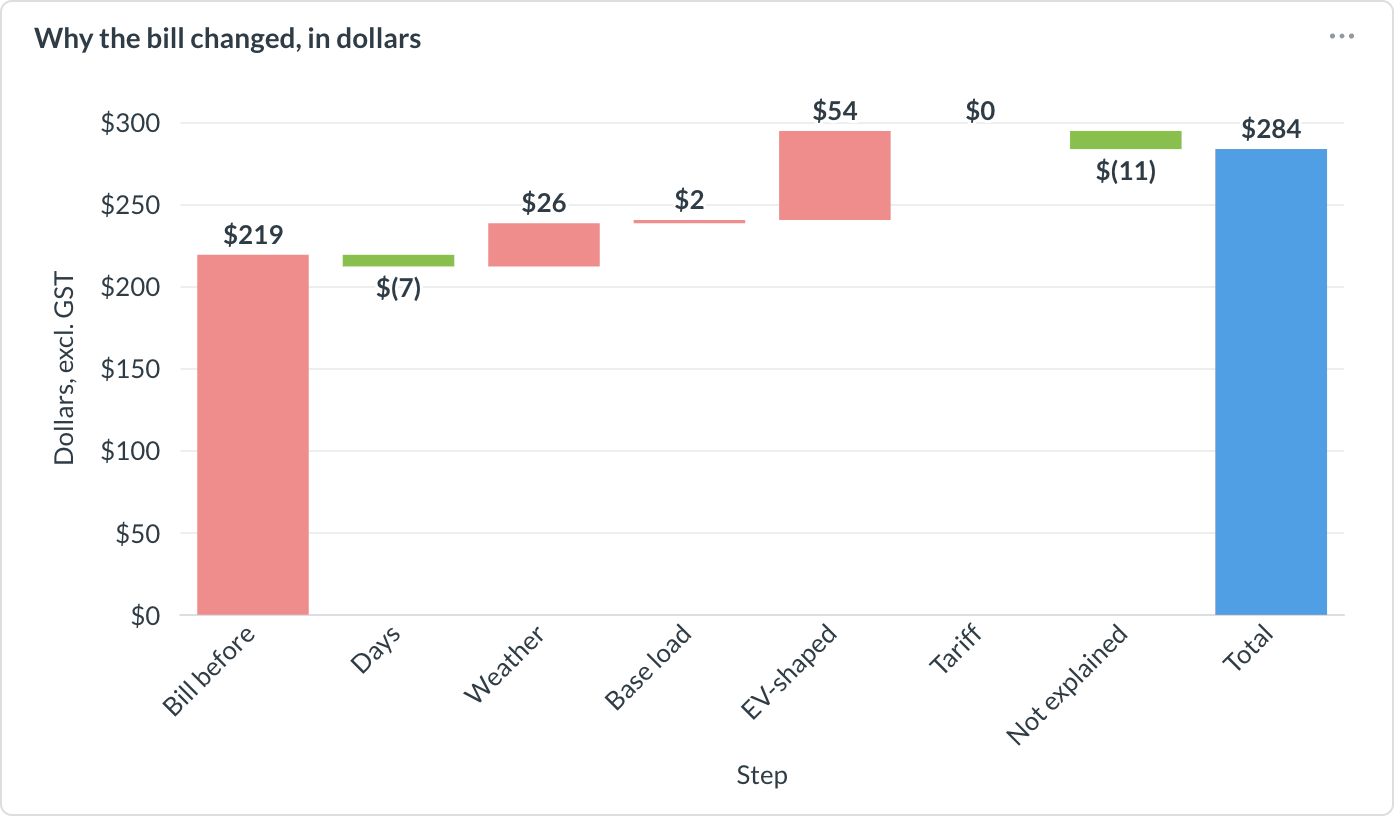
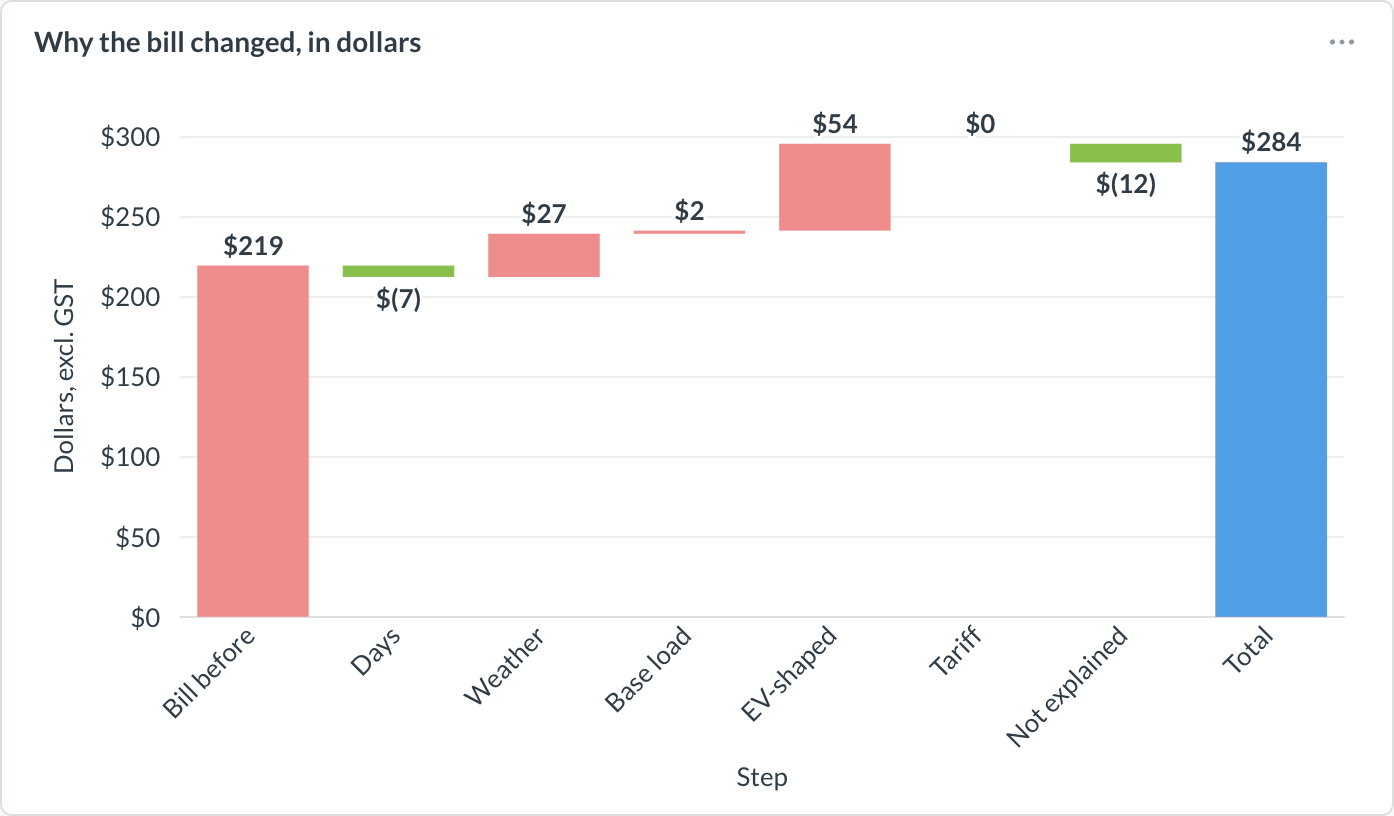
docs: lead the README with the problem and answer each question in Analysis
- Why it matters: rising power bills, the jump in EV registrations and the
  growth of rooftop solar, each with its source, and the five questions they
  leave customers with.
- Analysis: a table answering all five for the demo household, then one
  section per question with the result first, its chart, and the method in a
  collapsed "How it's calculated" block. New sections for night charging and
  solar; the plan comparison shows the three plans and why Time of Use wins.
- Figures retaken from the rebuilt demo dashboard on weather to 16 Sep 2026:
  the bill explanation, and the forecast for the cycle from 2 Sep. Two new
  ones for night charging and solar payback.
- Data sources before Architecture, the NIWA download in the prerequisites,
  the serving database correctly given as Postgres 16, and the Trustworthy
  answers stage dropped from the roadmap.

diff --git a/README.md b/README.md
@@ -1,13 +1,46 @@
 # Kea Energy — Data Platform
 
-**A batch data platform that turns smart-meter readings into bill explanations, bill forecasts
-and plan recommendations for New Zealand electricity customers.**
+**A data platform that turns smart-meter readings into answers for New Zealand electricity
+customers: why a bill went up, what it will come to, which plan is cheapest, and what charging
+an EV at night or adding solar would save.**
 
-Customers want to know why a bill went up, what next month will cost and whether another
-plan would be cheaper. Answering that needs half-hourly meter data, billing history, tariffs
-and weather from separate systems, and the answers have to be correct. This pipeline
-collects that data, models it and publishes it to the customer-facing app in tested
-releases.
+## Why it matters
+
+Three trends are making New Zealand households look harder at their power bills:
+
+- **Bills keep rising:** up 6.8% on average in the first half of 2026, after 8.0% in 2025
+  ([Electricity
+  Authority](https://www.ea.govt.nz/news/general-news/data-shows-68-increase-to-power-bills-across-households-and-small-businesses/)).
+- **More cars charge at home:** with petrol at $3.35 a litre, EV and plug-in hybrid
+  registrations in the September quarter were up 206% on a year earlier, 19% of all car
+  registrations ([Infometrics, via
+  RNZ](https://newswire.co.nz/2026/10/new-zealand-electric-car-registrations-triple-september-quarter-2026/)).
+- **More homes turn to solar:** just under 84,000 customers now have it, up from 20,000 in
+  2018, and Rewiring Aotearoa estimates most buyers now save more than they spend
+  ([RNZ](https://www.rnz.co.nz/news/business/594242/new-zealand-passes-solar-tipping-point)).
+
+That leaves customers with five questions: why the bill went up, what it will come to, and
+whether another plan, charging the car at night or adding solar would save money.
+[Analysis](#analysis) answers each one for a demo household.
+
+Answering them needs half-hourly meter data, billing history, tariffs and weather from separate
+systems, and the answers have to be correct. This pipeline collects that data, models it and
+publishes it to the customer-facing app in tested releases.
+
+## Data sources
+
+The data is generated from real public datasets, so it behaves like real data but contains
+no customer information.
+
+| Source | Used for |
+|---|---|
+| [Low Carbon London](https://www.kaggle.com/datasets/jeanmidev/smart-meters-in-london) smart-meter data | A deterministic 200-household cohort, shifted to NZ time and seasons ([details](dictionary/lcl-source-data.md)) |
+| [NIWA](dictionary/niwa-weather-source.md) daily temperatures | Heating-degree days for weather-adjusted forecasts (non-commercial licence, not redistributed) |
+| [Retail tariffs](dictionary/ecotricity-tariff-source.md) | Three plan families used to price every bill |
+| [`sample/`](sample/) | Nine hand-built households, each a "why did my bill go up" scenario that checks its own totals |
+
+**Dollar figures are illustrative.** Tariffs come from public sources; values that had to be
+assumed are marked as such in the data dictionary.
 
 ## Architecture
 
@@ -31,37 +64,159 @@ releases.
 ## Analysis
 
 The published data answers the questions above. These charts come from the demo walkthrough
-dashboard, which follows one household from the test data through every feature. The data is
-synthetic and the dashboard shows no identifiers.
+dashboard, which follows one household from the test data through each feature below. The data
+is synthetic and the dashboard shows no identifiers.
+
+| Question | Answer for the demo household |
+|---|---|
+| [Why did my bill go up?](#why-did-my-bill-go-up) | Up 29%, mostly a new EV: $54 of the $64 rise |
+| [What will this bill come to?](#what-will-this-bill-come-to) | Up to 87% above last year, so a warning from day one |
+| [Would another plan be cheaper?](#would-another-plan-be-cheaper) | Yes: Time of Use, about $400 a year less |
+| [What if the car charged at night?](#what-if-the-car-charged-at-night) | Another $487 a year on Time of Use |
+| [What if the household added solar?](#what-if-the-household-added-solar) | Fastest payback 8 to 15 years (3 kW, no battery) |
+
+Each section gives the result first; open **How it's calculated** for the method.
 
 ### Why did my bill go up?
 
-The bill for 2 Jun – 1 Jul 2026 was **29% higher** than the one before ($219 → $284). From
-20 June, the half-hourly data shows long evening blocks shaped like an EV charger:
+The bill for 2 Jun – 1 Jul 2026 was **29% higher** than the one before ($219 → $284). The
+EV-shaped load accounts for **$54** of the $64 rise and colder weather for $27, while a shorter
+billing period saves $7. The $12 that no measured cause explains is shown rather than hidden.
+From 20 June, the half-hourly data shows long evening blocks shaped like an EV charger:
 
 ![Daily use, with the EV-shaped part highlighted](analysis/figures/dashboard-ev-detection.png)
 
-The bill explanation prices each cause in dollars. The EV-shaped load accounts for **$54** of
-the rise and colder weather for $26, while a shorter billing period saves $7. The $11 that no
-measured cause explains is shown rather than hidden.
-
 ![Why the bill changed, in dollars](analysis/figures/dashboard-bill-explanation.png)
 
-### What will next month cost?
+<details>
+<summary>How it's calculated</summary>
 
-During the cycle that started on 2 Aug 2026, the daily forecast sat up to **63% above** the
-same period last year from day one, and its range never came down to last year's bill. The
-customer gets a "heading unusually high" warning weeks before the bill arrives.
+The bill explanation splits the change into causes and prices each one in dollars, at the
+earlier bill's own price per kWh so the customer can check it against that bill. The causes are
+measured in a fixed order, each after the ones before it are taken out:
+
+1. **Days:** a longer or shorter billing period.
+2. **Weather:** the change in heating degree days, times how much more this household uses on a
+   colder day.
+3. **Base load:** a change in the always-on use, such as fridges and standby.
+4. **Detected loads:** EV-shaped and water-heater-shaped runs found in the half-hourly data.
+5. **Tariff:** a change in the plan's prices.
+
+Whatever is left is shown as **not explained**, so the parts always add up exactly to the
+change. A bill is only called explained when the measured causes cover at least 60% of it and
+both periods have complete weather.
+
+</details>
+
+### What will this bill come to?
+
+During the cycle that started on 2 Sep 2026, the forecast sat up to **87% above** the same
+period last year from day one, and its range never came down to last year's bill. Because it
+was 15% or more above last year, the customer got a "heading unusually high" warning weeks
+before the bill arrived.
 
 ![The forecast during the cycle, against last year](analysis/figures/dashboard-forecast.png)
 
+<details>
+<summary>How it's calculated</summary>
+
+Partway through a billing cycle, the forecast is rebuilt as each day's meter reads arrive:
+
+1. **Use so far** comes from the meter, so it is known, not estimated.
+2. **The remaining days** are projected from a model fitted on this household's own past
+   months: a daily base use plus the extra use per heating degree day. Detected loads such as
+   the EV are added back, and the weather still to come is taken from 30-year climate normals
+   for the region.
+3. **The bill** is that use priced at the plan's rates, plus the daily charges. The ±15% range
+   applies to the projected days only, because the metered days are already known.
+
+</details>
+
 ### Would another plan be cheaper?
 
-Re-pricing this home's last twelve months of half-hourly use on each plan, **Time of Use**
-costs about **$400 a year less** than its current Free Weekends plan. A switch is
-recommended only when it saves money.
+Over a year of this household's use (Aug 2026 – Aug 2027; the synthetic data runs to August
+2027), **Time of Use** costs about **$400 a year less** than its current Free Weekends plan.
+The household uses 55% of its power off-peak or at night, and only 5% in Free Weekends' free
+hours, so Time of Use averages 30.7c/kWh against 34.8c.
 
-![A year of this home's use, priced on each plan](analysis/figures/dashboard-plan-comparison.png)
+Every household can choose from three [plans](dictionary/ecotricity-tariff-source.md). Prices
+include GST, and all three pay 8c/kWh for exported solar:
+
+| Plan | Energy price | Daily charge |
+|---|---|---|
+| **Anytime Rate** | 32.5c/kWh at any time | $1.45 |
+| **Time of Use** | 39.0c/kWh peak (7–11am, 5–9pm), 27.0c off-peak (11am–5pm, 9–11pm), 18.0c night (11pm–7am), every day | $1.50 |
+| **Free Weekends** | 36.5c/kWh, but free on Saturdays and Sundays from 9am to 5pm | $1.55 |
+
+![A year of this household's use, priced on each plan](analysis/figures/dashboard-plan-comparison.png)
+
+<details>
+<summary>How it's calculated</summary>
+
+The comparison re-prices the household's own use on every plan:
+
+1. **A year of half-hourly use** is summed by weekday and half-hour of the day. This loses
+   nothing, because every plan's price depends only on the weekday and the time of day.
+2. **Each plan prices that use** with the same pricing engine, plus its daily charges. The
+   current plan is re-priced the same way rather than taken from past bills, so any difference
+   comes from the plan alone.
+3. **A switch is recommended only when the plan itself is cheaper.** Term credits ($10 a month
+   on a 6-month term, $25 a month on a 12-month term) can change which offer ranks first, but
+   never turn a more expensive plan into a "saving".
+
+</details>
+
+### What if the car charged at night?
+
+On Time of Use, charging at night would cut the bill by another **$487 a year** ($3,394 →
+$2,907). On Free Weekends it saves almost nothing, because that plan has no cheaper night rate.
+This is a modelled what-if, not a measurement.
+
+![The year's bill, charging as now or at night](analysis/figures/dashboard-ev-night.png)
+
+<details>
+<summary>How it's calculated</summary>
+
+The what-if moves the charging this household already does, and re-prices the same year:
+
+1. **Each detected charging session** is taken at the lower end of its estimated kWh, the part
+   the detector is sure of, spread evenly over the session's half-hours. The rest of the
+   household's evening use stays where it is.
+2. **The session is moved to start at 11pm the same night.** Exactly the energy taken off is
+   put back; a session that already starts at night stays put.
+3. **The whole year is re-priced** with the charging as it happened and with it moved, on the
+   current plan and on Time of Use. The difference is the saving.
+
+</details>
+
+### What if the household added solar?
+
+Nine options were priced: 3, 5 and 7 kW, each without a battery, with a 13.5 kWh battery
+charged from the panels, and with one that also charges from the grid when power is cheapest.
+The fastest payback is a 3 kW system with no battery, at **8 to 15 years**, and a battery
+lengthens the best case for every size. Installed costs and regional yields come from an
+assumptions file, and no panel wear or price change is modelled, so these are estimates, not
+measurements.
+
+![Solar: years to pay back, best and worst case](analysis/figures/dashboard-solar-payback.png)
+
+<details>
+<summary>How it's calculated</summary>
+
+Each option is worked out on this household's own year of half-hourly use:
+
+1. **Panel output** for each day is the region's solar yield for that month, per kW, times the
+   system size, spread over the daylight hours along the sun's arc. It is done twice, with a
+   low and a high yield.
+2. **Each real half-hour is netted on its own.** The panels first cover that half-hour's use,
+   and only the surplus is exported at 8c/kWh. With a battery, the surplus charges the battery
+   first, and the battery then covers later use.
+3. **The year is priced on the household's current plan** with and without solar. The
+   difference is the yearly saving.
+4. **Payback is the installed cost divided by the yearly saving.** The best case is the low
+   cost over the high saving, the worst case the high cost over the low saving.
+
+</details>
 
 ## Tech stack
 
@@ -71,7 +226,7 @@ recommended only when it saves money.
 | Processing | Spark 3.5, Python | Spark only for the millions of meter reads; small tables don't justify a cluster |
 | Lake | MinIO, Parquet, Avro | Runs locally with the same S3 API as AWS; Avro contracts catch schema drift before ingest |
 | Warehouse | Snowflake, dbt 1.12 | Layered, version-controlled SQL models with built-in tests and docs |
-| Serving | Postgres 17 | The app's own database; schema changes go through immutable, versioned migrations |
+| Serving | Postgres 16 | The app's own database; schema changes go through immutable, versioned migrations |
 | Data quality | dbt tests, Soda Core | Tests the logic during the build and checks the data after each load |
 | Observability | OpenLineage + Marquez, Prometheus + Grafana | Table-level lineage plus pipeline health and alerting |
 | Analytics | Metabase | Dashboards built from code, with every card checked automatically |
@@ -79,8 +234,11 @@ recommended only when it saves money.
 ## Getting started
 
 **Prerequisites:** Docker, GNU Make, Python 3.11, a Snowflake account (set up once with
-[`snowflake/bootstrap.sql`](snowflake/bootstrap.sql)), and a
-[Kaggle API token](https://www.kaggle.com/settings) to download the meter data.
+[`snowflake/bootstrap.sql`](snowflake/bootstrap.sql)), a [Kaggle API
+token](https://www.kaggle.com/settings) to download the meter data, and the four NIWA daily
+temperature datasets in `raw/niwa/` (a free, licence-gated download; see the [weather
+dictionary](dictionary/niwa-weather-source.md)). Without the NIWA files the pipeline still
+runs, but forecasts and bill explanations have no weather.
 
 ```bash
 git clone https://github.com/nanhangfei/kea-energy-data.git && cd kea-energy-data
@@ -117,18 +275,6 @@ Grafana [:3001](http://localhost:3001), Marquez [:3000](http://localhost:3000).
 Every step ends with a gate that fails the run: source integrity, lake isolation, `dbt test`
 plus Soda on the warehouse, and `assert_serving` plus Soda on the published release.
 
-## Data
-
-The data is generated from real public datasets, so it behaves like real data but contains
-no customer information.
-
-| Source | Used for |
-|---|---|
-| [Low Carbon London](https://www.kaggle.com/datasets/jeanmidev/smart-meters-in-london) smart-meter data | A deterministic 200-household cohort, shifted to NZ time and seasons ([details](dictionary/lcl-source-data.md)) |
-| [NIWA](dictionary/niwa-weather-source.md) daily temperatures | Heating-degree days for weather-adjusted forecasts (non-commercial licence, not redistributed) |
-| [Retail tariffs](dictionary/ecotricity-tariff-source.md) | Three plan families used to price every bill |
-| [`sample/`](sample/) | Nine hand-built households, each a "why did my bill go up" scenario that checks its own totals |
-
 ## Project structure
 
 ```
@@ -156,14 +302,8 @@ analysis/            dashboards as code, dashboard screenshots, evaluations
 | **4. Advanced analytics** | EV and water-heater load detection; solar, battery and EV what-ifs; hardship early warning; each scored against planted answers | Done |
 | **5. Analysis and scale** | 200-household cohort; Metabase dashboards built from code; pinned versions and offline CI checks (`make ci`) | Done |
 | **6. Delivery** | CI on every pull request, including `dbt build` in an isolated schema; first run of the guarded `make deploy` | In progress |
-| **7. Trustworthy answers** | Calibrated forecast ranges; quarantined accounts visible to the app instead of silently missing; tariff changes explained by re-rating in SQL | Planned |
-| **8. Production readiness** | Immutable export releases with a manifest; deployment to AWS (MWAA, EMR Serverless, RDS) with infrastructure as code | Planned |
-| **9. Streaming** | Meter reads replayed through Kafka and Flink, proven to produce the same marts as batch | Planned |
-
-## Limitations
-
-- **Dollar figures are illustrative.** Tariffs come from public sources; values that had to
-  be assumed are marked as such in the data dictionary.
+| **7. Production readiness** | Immutable export releases with a manifest; deployment to AWS (MWAA, EMR Serverless, RDS) with infrastructure as code | Planned |
+| **8. Streaming** | Meter reads replayed through Kafka and Flink, proven to produce the same marts as batch | Planned |
 
 ## About this repository
 
